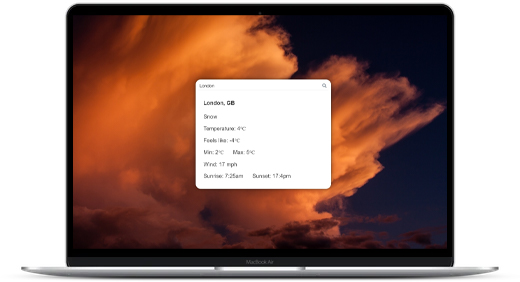
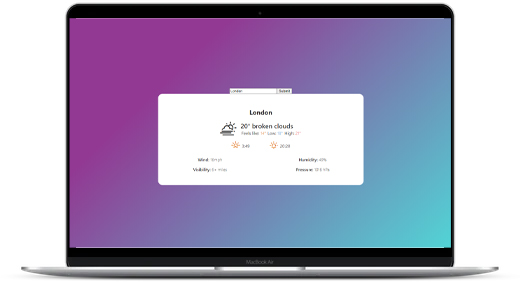
Weather App updated

diff --git a/index.html b/index.html
@@ -22,7 +22,7 @@
                     ><img src="images/avatar.png" alt=""
                 /></a>
                 <h1>
-                    <strong>Steven Rockett</strong>, a junior<br />
+                    <strong>Steven Rockett</strong>, a<br />
                     developer with a background in<br />
                     Computer Science.
                 </h1>
@@ -40,7 +40,7 @@
                 <div class="row">
                     <article class="col-6 col-12-xsmall work-item">
                         <a
-                            href="http://www.stevenrockett.com/Weather-App/"
+                            href="http://www.stevenrockett.com/Weather-App-react/"
                             target="_blank"
                             rel="noopener noreferrer"
                             class="image fit thumb"
@@ -51,7 +51,7 @@
                         <h3>
                             Weather App
                             <a
-                                href="https://github.com/RockettSJ/Weather-App"
+                                href="https://github.com/RockettSJ/Weather-App-react"
                                 target="_blank"
                                 rel="noopener noreferrer"
                                 class="icon brands fa-github"
